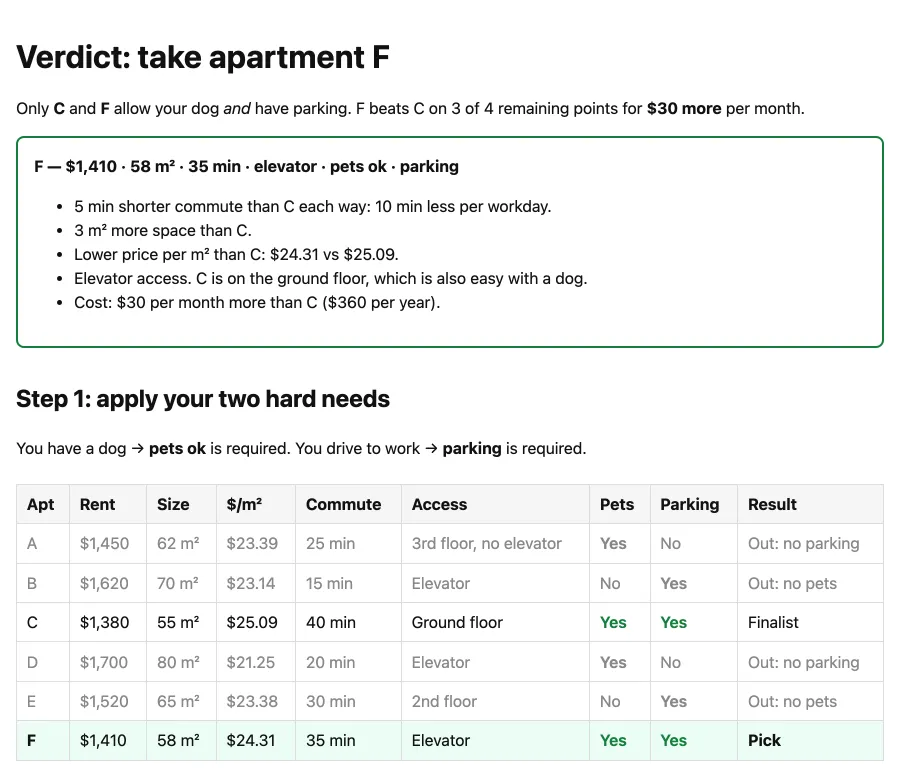
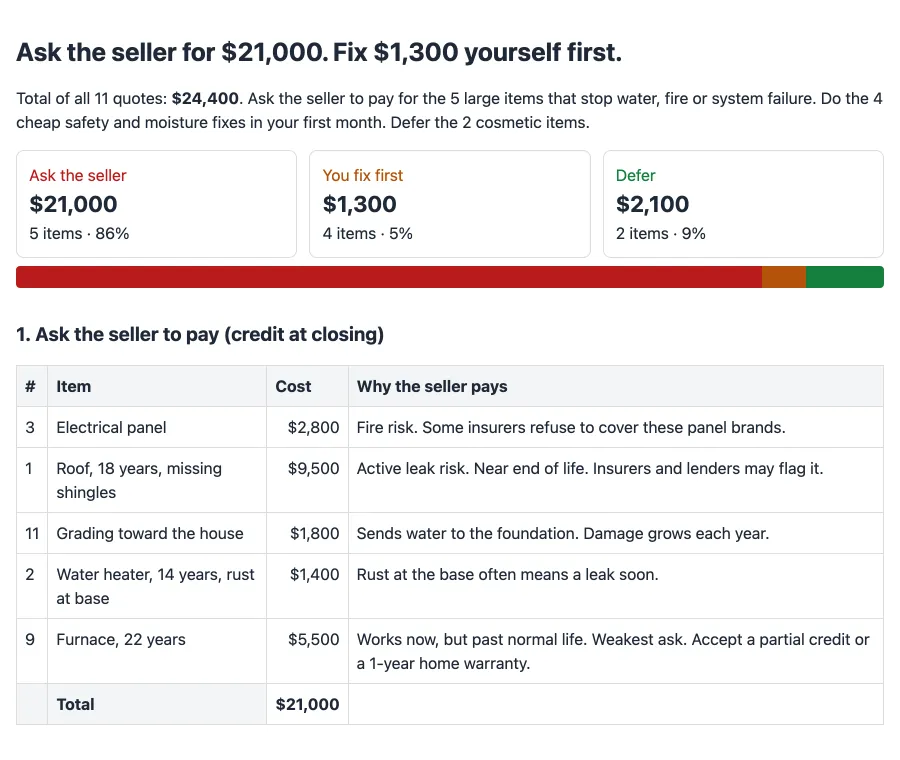
README: explain ASD-STE100 first; examples where the skill picks the format; video as a note (#2)

diff --git a/README.md b/README.md
@@ -10,6 +10,24 @@
   <a href="LICENSE"><img alt="License: MIT" src="https://img.shields.io/badge/license-MIT-ffb547?style=flat-square"></a>
 </p>
 
+## Why ASD-STE100
+
+[ASD-STE100 Simplified Technical English](https://www.asd-ste100.org/) is the writing standard for aircraft maintenance manuals. It exists so that a mechanic, maybe not a native speaker, reads an instruction once and cannot get it wrong. It has 53 writing rules and a dictionary of about 900 approved words, each with one meaning.
+
+Agent replies have the same problem: long, hedged, and easy to misread. This skill applies about 80% of STE to every reply. It keeps the rules that cut reading time and drops the strict dictionary:
+
+- One idea per sentence, under 20 words.
+- Active voice. Instructions in the imperative: "Run X".
+- One term, one meaning. No synonyms for the same thing.
+- Concrete numbers, never "several" or "significant".
+- The result first, then the evidence, then the next step.
+
+| Typical writing | STE-style |
+|---|---|
+| It would probably be a good idea to consider leaving home a little earlier than you normally would, since international flights can sometimes involve longer lines at check-in and security. | Leave home by 3:15 am. You reach JFK at 4:10 am, 3 hours before departure. |
+
+Text is rung 1, and every reply gets it. The other rungs are rare extras on top.
+
 ## The ladder
 
 Every reply is rung 1. A higher rung is added only when its criterion is met.
@@ -27,7 +45,7 @@ Real replies, not edited. Claude Opus 5.5 in Pi, clean context.
 
 ### 1. Text
 
-Plain questions get plain text: result first, no extra format.
+Most questions stop here. Same model, same answer, less to read.
 
 #### When to leave for the airport
 
@@ -105,7 +123,7 @@ Plain questions get plain text: result first, no extra format.
 
 ### 2. Chart
 
-One data series whose shape is the answer, so the skill adds a chart.
+You did not ask for a chart. The answer is the shape of one data series, so the skill adds one.
 
 **You ask:** My electricity bills in USD for the last 12 months: Jan 92, Feb 88, Mar 71, Apr 64, May 79, Jun 118, Jul 141, Aug 146, Sep 112, Oct 70, Nov 74, Dec 95. Why is it so high some months, and what is my yearly total?
 
@@ -121,25 +139,19 @@ One data series whose shape is the answer, so the skill adds a chart.
 
 ### 3. HTML report
 
-Six options with 6 attributes each, and a report request, so the skill writes one static HTML file.
+You did not ask for a report. 11 findings is more than 6, so the skill adds one static HTML file.
 
-**You ask:** Help me pick an apartment and give me a report. A: $1,450, 62 m2, 25 min commute, 3rd floor no elevator, pets ok, no parking. B: $1,620, 70 m2, 15 min, elevator, no pets, parking. C: $1,380, 55 m2, 40 min, ground floor, pets ok, parking. D: $1,700, 80 m2, 20 min, elevator, pets ok, no parking. E: $1,520, 65 m2, 30 min, 2nd floor, no pets, parking. F: $1,410, 58 m2, 35 min, elevator, pets ok, parking. I have a dog and I drive to work.
+**You ask:** The home inspector's notes for the house I want to buy. What do I fix first, and what should I ask the seller to pay for? 1) Roof: 18 years old, some missing shingles, quote $9,500. 2) Water heater: 14 years old, rust at the base, $1,400. 3) Electrical panel: brand known for failures, $2,800. 4) Bathroom fan vents into the attic, $350. 5) Gutters clogged, $200. 6) Crack in the driveway, $1,200. 7) GFCI outlets missing in the kitchen, $300. 8) Deck railing loose, $450. 9) Furnace 22 years old, still works, $5,500. 10) Window seals failed in 3 windows, $900. 11) Grading slopes toward the house on the north side, $1,800.
 
-> I recommend apartment F. It's $1,410 for 58 m², with a 35 min commute, an elevator, pets allowed and parking.
+> I'd ask the seller to cover $21,000 of the $24,400 total, and do $1,300 of cheap safety fixes yourself first.
 
-<img src="assets/ex-html.webp" alt="Static HTML report: verdict, filter table and finalist comparison" width="700">
+<img src="assets/ex-html.webp" alt="Static HTML report: ask the seller for $21,000, fix $1,300 first, defer $2,100" width="700">
+
+<sub>Without the skill: 3,595 characters of text in the chat, no file.</sub>
 
 ### 4. Video
 
-Only because you ask for one. Narration by ElevenLabs.
-
-**You ask:** Make a 20-second video that shows how saving $200 a month grows over 10 years at 7% a year, compared with keeping it in cash. Use ffmpeg (it is on the PATH) and narrate it. Save the MP4 in this directory.
-
-> The video is ready: `savings-200-month-10-years.mp4`. It runs exactly 20 seconds at 1280×720 and has a voiceover.
->
-> **Result:** after 10 years, cash holds $24,000 and the 7% account holds $34,617. That is $10,617 more, from growth alone.
-
-https://github.com/user-attachments/assets/42d58daf-66ba-4430-bd7b-3829e2544818
+The skill never offers a video. Ask for one and it writes the script first, then renders a narrated MP4.
 
 ## Install
 
